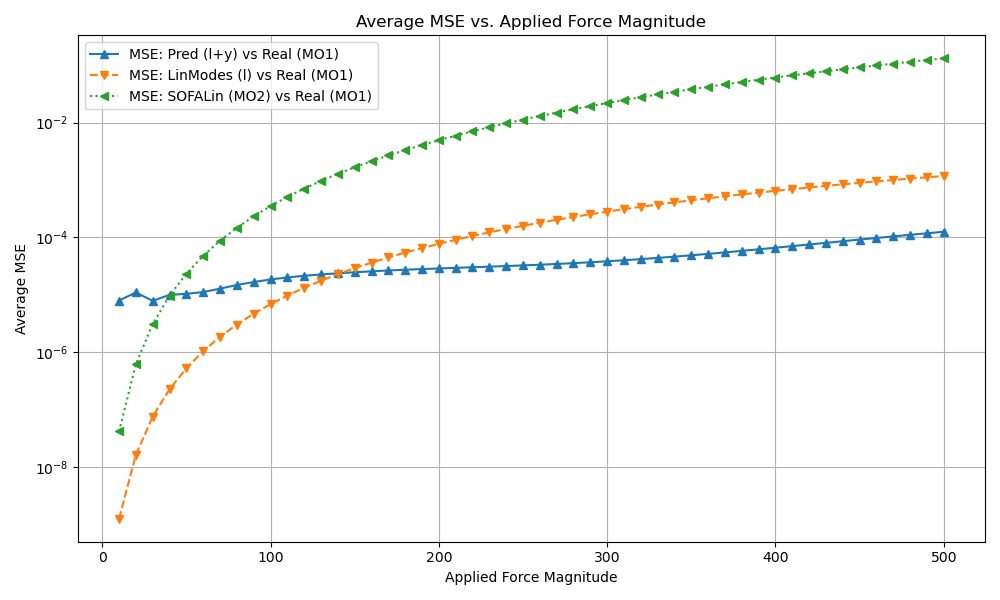
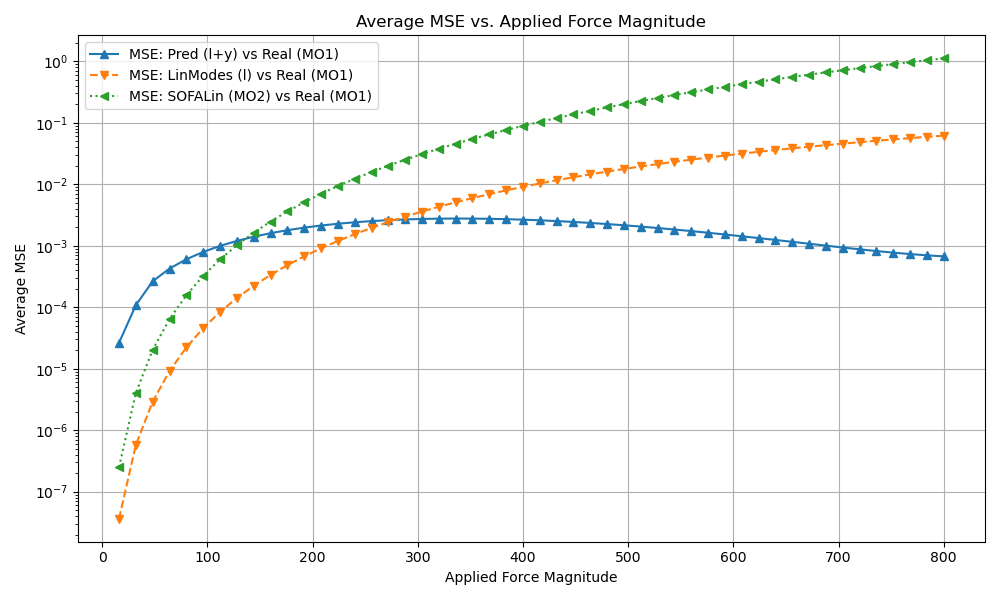
added self supervised comparison

diff --git a/INRIA/Report/Sections/04_numerical_results.tex b/INRIA/Report/Sections/04_numerical_results.tex
@@ -10,7 +10,7 @@ The first test case is a cantilever beam with a square cross-section of size $1 
 \label{sec:stanford_bunny_setup}
 The second test case employs the Stanford bunny \cite{bunny-mesh}, a widely recognized benchmark geometry in computational mechanics and computer graphics. This complex 3D shape presents a significantly more challenging validation scenario due to its intricate surface topology, non-uniform geometry, and irregular mass distribution. The Stanford bunny is fixed at its base and subjected to various loading conditions to generate the training data for the POD-based model reduction. This geometry tests the robustness and generalization capabilities of our method on realistic, non-trivial shapes that are commonly encountered in biomedical engineering applications. The complex geometry introduces coupling between different deformation modes and provides a stringent test for the neural network's ability to capture intricate displacement patterns typical of soft biological tissues.
 
-\begin{figure}[ht]
+\begin{figure}[H]
     \centering
     \includegraphics[width=0.7\textwidth]{Images/stanford_bunny.png}
     \caption{The Stanford bunny geometry used in the tests.}
@@ -25,7 +25,7 @@ One of the first steps is clearly to determine the optimal number of modes to be
     RMSE = \sqrt{\frac{1}{N}\sum_{i=1}^N (\bm{u}_i^{full} - \bm{u}_i^{reduced})^2},
 \end{equation}
 where $N$ is the number of nodes in the mesh, $\bm{u}_i^{full}$ is the displacement field computed with the full model and $\bm{u}_i^{reduced}$ is the displacement field computed with the reduced model. The figure shows that the error decreases rapidly with the number of modes used, and then stabilizes around 20 modes. We can see that with 10 modes the error is already below \(10^{-3}\) and with 20 modes the error is below \(10^{-4}\). For our use case, 7 modes are sufficient.
-\begin{figure}[ht]
+\begin{figure}[H]
     \centering
     \includegraphics[width=0.7\textwidth]{Images/rmse_vs_modes.png}
     \caption{RMSE of the displacement field as a function of the number of modes used.}
@@ -49,7 +49,7 @@ The training process is described in detail in Section \ref{sec:training_neural_
 
 For the cantilever beam, we stopped the training, after 200 epochs, when the loss reached a plateau and we observed no significant improvement in the last 50 epochs. In Figure \ref{fig:training_loss_beam} we can see the training loss for the cantilever beam, which shows that immediately after the first epoch the loss drops significantly, meaning that the model is able to learn the underlying physics of the problem very quickly. We then let the model train for 200 so that it can receive as input a wide range of different configurations and be able to generalize well.
 
-\begin{figure}[ht]
+\begin{figure}[H]
     \centering
     \includegraphics[width=0.7\textwidth]{Images/training_loss_smoothed.png}
     \caption{Training loss for the cantilever beam.}
@@ -58,7 +58,7 @@ For the cantilever beam, we stopped the training, after 200 epochs, when the los
 
 We also provide the plot of the energy part of the loss function, which is computed as the mean of the internal energy of the batch of training samples. As we can see in Figure \ref{fig:training_energy_loss_beam}, at the first epoch the energy is very high, because the last layer of the neural network is set to have zero weights and biases, meaning that at the end of first epoch the prediction is just the linear modes approximation, then the energy loss drops significantly in the first few epochs, learning a meaningful correction to the linear modes approximation, while maintaning the ability to generalize even though the training set is not very large. The energy loss stabilizes around \(5e3\), which is on par with the energy computed in the validation phase with the full-order FEM solver.
 
-\begin{figure}[ht]
+\begin{figure}[H]
     \centering
     \includegraphics[width=0.7\textwidth]{Images/training_energy_smoothed.png}
     \caption{Training energy loss for the cantilever beam.}
@@ -70,25 +70,48 @@ We also provide the plot of the energy part of the loss function, which is compu
 \label{sec:testing_model}
 Since the training is completely data-free we perform the validation of the model in two main ways. The first one is to check the accuracy of reconstruction of the displacement field for some random static configurations, given by applying random coefficients to the modal forces. The second way of validation is to see how well the model can predict the displacement field for a dynamic problem, where the FEM solver is used to compute the first two time steps of the dynamic problem, and then the equation \ref{eq:optimization_problem} is used to predict the next time steps. 
 
+\subsubsection{Self-supervised training}
+\label{sec:self_supervised_training}
+To provide some insight into the self-supervised training process, we trained a network following the procedure described by \cite{Wang_Du_Coros_Thomaszewski_2024}, where the network is trained by using only the minimization of the energy loss function, without any ground truth data. The training is performed by sampling uniformly the modal coefficients within the ranges established during the training phase:
+\begin{align*}
+    z_1 &\in [-225, 225], \\
+    z_2 &\in [-170, 170], \\
+    z_3 &\in [-20, 20], \\
+    z_4 &\in [-15, 15], \\
+    z_5 &\in [-5, 5], \\
+    z_6 &\in [-80, 80], \\
+    z_7 &\in [-170, 170].
+\end{align*}
+
+Then we perform the validation of the model on the same validation set used for the supervised training. The result are shown in Figure \ref{fig:self_supervised_validation_mse_comparison}, where we can see that the self-supervised model performs at most as well as the linear modes model, which means that it is not worth to use such a model, since it does not provide any significant advantage over the linear modes. 
+
+\begin{figure}[H]
+    \centering
+    \includegraphics[width=0.8\textwidth]{Images/self_supervised_mse.png}
+    \caption{Average MSE between 40 different simulations with randomly applied forces. The neural modes model (blue) is compared against the linear modes model (orange) and the linear FEM model (green), all evaluated against the nonlinear FEM ground truth. The self-supervised model performs at most as well as the linear modes, as shown by the MSE values.}
+    \label{fig:self_supervised_validation_mse_comparison}
+\end{figure}
+
 \subsubsection{Static validation}
 \label{sec:static_validation}
 For the static validation phase, we rigorously test the neural network model's ability to accurately reconstruct displacement fields for various static configurations that were not seen during training. This validation is crucial to establish confidence in the model's interpolation capabilities within the trained parameter space and to verify that the network has successfully learned the underlying physics of the structural mechanics problem.
 
+
 We generate a comprehensive test dataset consisting of 100 random static configurations by sampling modal coefficients uniformly within the established training ranges for each mode. Each test case represents a unique static equilibrium state of the cantilever beam under different loading conditions. For each configuration, we compute the reference displacement field using the full-order FEM solver and compare it with the neural network's prediction. The comparison is performed both qualitatively through visual inspection of the displacement fields and quantitatively using the Root Mean Square Error (RMSE) metric.
 
-At 500N of applied force, the maximum MSE is $10^{-4}$ for the neural model, significantly outperforming both the linear modes model ($10^{-3}$) and the FEM with linear elasticity ($10^{-2}$). The maximum observed error across all test cases is $1.2 \times 10^{-4}$, while the minimum is $1.2 \times 10^{-5}$, demonstrating that the model maintains excellent accuracy across the entire range of test configurations. Importantly, the neural network error remains bounded within this narrow range ($10^{-5}$ to $10^{-4}$) across all force magnitudes, making it significantly more reliable than linear modes, which perform very well for small displacements but exhibit exponentially growing errors when operating outside the small deformation range. These results confirm that the neural network has successfully learned to approximate the complex nonlinear relationship between modal coordinates and the resulting displacement fields with remarkable precision and consistent reliability.
+At 800N of applied force, the maximum MSE is $10^{-3}$ for the neural model, significantly outperforming both the linear modes model ($10^{-3}$) and the FEM with linear elasticity ($10^{-2}$). The maximum observed error across all test cases is $1.2 \times 10^{-3}$, while the minimum is $1.2 \times 10^{-5}$, demonstrating that the model maintains excellent accuracy across the entire range of test configurations. Importantly, the neural network error remains bounded within this narrow range ($10^{-5}$ to $10^{-3}$) across all force magnitudes, making it significantly more reliable than linear modes, which perform very well for small displacements but exhibit exponentially growing errors when operating outside the small deformation range. These results confirm that the neural network has successfully learned to approximate the complex nonlinear relationship between modal coordinates and the resulting displacement fields with remarkable precision and consistent reliability.
 
-Figure \ref{fig:static_mse_comparison} presents the average MSE comparison between three different approaches: neural modes, linear modes, and linear FEM, all evaluated against the nonlinear FEM ground truth across force magnitudes ranging from 0 to 500 N. The results reveal distinct performance characteristics across different deformation regimes. For small displacements in the linear range (low forces), the linear modes approach demonstrates superior accuracy due to its exact representation of the underlying linear physics. However, as the applied forces increase and the system enters the nonlinear deformation regime, the neural modes approach significantly outperforms both linear methods by approximately an order of magnitude. This performance crossover occurs around 100 N, where the geometric nonlinearities become dominant. The superior performance of neural modes in the nonlinear range validates the method's ability to capture complex deformation patterns that cannot be represented by linear modal decomposition alone.
+Figure \ref{fig:static_mse_comparison} presents the average MSE comparison between three different approaches: neural modes, linear modes, and linear FEM, all evaluated against the nonlinear FEM ground truth across force magnitudes ranging from 0 to 800 N. The results reveal distinct performance characteristics across different deformation regimes. For small displacements in the linear range (low forces), the linear modes approach demonstrates superior accuracy due to its exact representation of the underlying linear physics. However, as the applied forces increase and the system enters the nonlinear deformation regime, the neural modes approach significantly outperforms both linear methods by approximately an order of magnitude. This performance crossover occurs around 100 N, where the geometric nonlinearities become dominant. The superior performance of neural modes in the nonlinear range validates the method's ability to capture complex deformation patterns that cannot be represented by linear modal decomposition alone.
 
-\begin{figure}[ht]
+\begin{figure}[H]
     \centering
     \includegraphics[width=0.8\textwidth]{Images/beam_static_mse.png}
-    \caption{Average MSE between 40 different simulations with randomly applied forces.}
+    \caption{Average MSE between 40 different simulations with randomly applied forces. The neural modes model (blue) is compared against the linear modes model (orange) and the linear FEM model (green), all evaluated against the nonlinear FEM ground truth. The neural modes model significantly outperforms the linear modes, especially in the nonlinear regime.}
     \label{fig:static_mse_comparison}
 \end{figure}
 
 To provide an additional layer of insight into the model's performance, Figure \ref{fig:static_energy_beam} illustrates the relationship between the applied force and the internal mechanical energy of the beam. The graph compares the energy computed by the neural network model against the ground truth obtained from the nonlinear FEM solution. As we can see again, in the small deformation regime, the linear modes outperform the neural modes, keeping the internal energy closer  to the ground truth. However, as the applied force increases and the beam undergoes larger deformations, the neural modes model manages to correct the linear model into a lower energy state, which is closer to the ground truth even in the case of large deformations. 
-\begin{figure}[ht]
+\begin{figure}[H]
     \centering
     \includegraphics[width=0.8\textwidth]{Images/beam_static_energy.png}
     \caption{Internal mechanical energy of the beam as a function of the applied force. The orange line represents the energy computed by the neural network model, while the blue line is the ground truth obtained from the nonlinear FEM solution. The red line represents the energy computed by the FEM with linear elasticity and the green line is the energy computed by the linear modes model.}
@@ -102,7 +125,7 @@ This particular example demonstrates a critical limitation of linear approaches 
 
 On the other hand, the neural modes approach successfully captures this complex nonlinear deformation pattern with remarkable accuracy. The magenta neural network prediction closely follows the green ground truth solution, demonstrating the model's capability to learn and reproduce the intricate relationships between modal coordinates and the resulting nonlinear displacement fields. This superior performance in capturing geometric nonlinearities represents one of the key advantages of the proposed neural modes' methodology over traditional linear model reduction techniques, particularly for applications involving soft tissues and other materials that undergo large deformations during normal operation.
 
-\begin{figure}[ht]
+\begin{figure}[H]
     \centering
     \includegraphics[width=0.4\textwidth]{Images/sofa_example_beam.png}
     \caption{Example of a static reconstruction in the case of the beam. The magenta beam represents the neural network prediction, the green one is the ground truth, the red wireframe represents the linear modes and the blue wireframe is the linear FEM model.}
@@ -112,7 +135,7 @@ On the other hand, the neural modes approach successfully captures this complex 
 In the case of the Stanford bunny, the static validation follows a similar procedure. We generate a test dataset of 50 random configurations by sampling modal coefficients uniformly within the ranges established during training. Each configuration is then processed through the neural network to obtain the predicted displacement field, and grouped by the corresponding force applied to the bunny. The neural network's predictions are compared against the reference displacement fields computed using the full-order FEM solver equipped with the Neo-Hookean hyperelastic model, the linear modes approximation, and the linear FEM model.
 
 Figure \ref{fig:static_mse_bunny} presents the average MSE comparison between the neural modes, linear modes, and linear FEM approaches across different force magnitudes applied to the Stanford bunny. The results reveal a similar trend to that observed in the cantilever beam case. For small forces, the linear modes approach performs well, but as the applied force increases and the bunny undergoes larger deformations, the neural modes model significantly outperforms both linear methods. The neural network achieves an order of magnitude improvement in accuracy compared to linear modes, demonstrating its ability to capture complex nonlinear deformation patterns that are not adequately represented by linear modal decomposition.
-\begin{figure}[ht]
+\begin{figure}[H]
     \centering
     \includegraphics[width=0.8\textwidth]{Images/bunny_static_mse.png}
     \caption{Average MSE between 50 different simulations with randomly applied forces on the Stanford bunny.}
@@ -121,7 +144,7 @@ Figure \ref{fig:static_mse_bunny} presents the average MSE comparison between th
 
 Also in this case, Figure \ref{fig:static_energy_bunny} illustrates the relationship between the applied force and the internal mechanical energy of the object. Again, we have energies that are lower by an order of magnitude than the linear modes and two orders of magnitude lower than the linear FEM model. In the case of the bunny the energy datum is particularly important, as the principal modes of deformation of the object are related to his head and ears, which means that most of its body is not deformed, keeping the MSE between the predicted displacement field and the ground truth very low, even if the prediction is far from being correct. Having that many nodes that stay still even in the deformed configuration, calls for additional metrics to evaluate the performance of the model, such as the internal energy, which we observe has a tendency to explode using linear elasticity or a combination of linear modes, but in the case of the neural modes model, the energy is just a bit higher than the ground truth.
 
-\begin{figure}[ht]
+\begin{figure}[H]
     \centering
     \includegraphics[width=0.8\textwidth]{Images/bunny_static_energy.png}
     \caption{Internal mechanical energy of the Stanford bunny as a function of the applied force. The orange line represents the energy computed by the neural network model, while the blue line is the ground truth obtained from the nonlinear FEM solution. The red line represents the energy computed by the FEM with linear elasticity and the green line is the energy computed by the linear modes model.}
@@ -129,7 +152,7 @@ Also in this case, Figure \ref{fig:static_energy_bunny} illustrates the relation
     \end{figure}
 In  Figure \ref{fig:sofa_example_bunny} we can see an example of a static reconstruction in the case of the Stanford bunny. The magenta bunny represents the neural network prediction, the green one is the ground truth, the red wireframe represents the linear modes and the blue wireframe is the linear FEM model. As we can see, the force is applied  to the ears of the bunny, which are the most deformable parts of the geometry and exhibit a highly nonlinear behavior, as confirmed by the significant differences between the Neo-Hookean ground truth and the linear elasticity FEM model. The neural network prediction closely follows the ground truth, while the linear modes tends to amplify the volume of the ears and fail to reconstruct the bending behavior of them.
 
-\begin{figure}[ht]
+\begin{figure}[H]
     \centering
     \includegraphics[width=0.4\textwidth]{Images/sofa_example_bunny.png}
     \caption{Example of a static reconstruction in the case of the Stanford bunny. The magenta bunny represents the neural network prediction, the green one is the ground truth, the red wireframe represents the linear modes and the blue wireframe is the linear FEM model.}
@@ -148,7 +171,7 @@ Another important aspect of this framework is its interpretability. While neural
     where $\bm{f}(z)$ is the output of the neural network. This means that using a vector that has zero coefficients in all, but one of the modes, we can easily see how the neural network modifies the displacement field in that particular mode. This is a very important feature, since it allows us to understand how the neural network is modifying the displacement field in each mode, and how it is able to capture the nonlinear behavior of the system. 
     In Figure \ref{fig:latent_space_viz} we can see a visualization of the latent space of the neural modes model for the Stanford bunny and the 7 corresponding modes. We see that coefficients for the vector tend to decrease as we move from the first mode to the last one, which is on par with what we experienced when we faced the question of the optimal sampling of the latent space in Section \ref{sec:sampling_modal_space}.
 
-\begin{figure}[ht]
+\begin{figure}[H]
     \centering
     \includegraphics[width=\textwidth]{Images/latent_space_viz.png}
     \caption{Visualization of the latent space of the neural modes model for the Stanford bunny. Each row represents a different mode, and in the corner we can se the actual value of the coefficient for that mode. The first column represents the most significant mode, which describes the overall movement of the head of the bunny.}
@@ -166,7 +189,7 @@ In reality, just performing the first two time steps with the FEM solver is defi
 
 As we can see from the  results, the neural network model performance in terms of MSE is just slightly better than the linear modes model, which raises questions about the need of  using a neural network for this problem. This is a perfectly valid concern, since the linear modes model is already a very good approximation of the displacement field, and it is much simpler to implement. As we can see in Figure \ref{fig:dynamic_validation_mse_comparison}, both the neural modes and linear modes models stray further from the ground truth as time progresses, but the neural modes model does slightly better, especially in the initial steps. When we reach the last part of the simulation, the MSE of the neural modes model is around 0.1, which clearly means that the prediction is not very accurate.
 
-\begin{figure}[ht]
+\begin{figure}[H]
     \centering
     \includegraphics[width=0.8\textwidth]{Images/beam_dynamic_mse.png}
     \caption{MSE of the displacement field as a function of time for the dynamic validation of the cantilever beam. The neural modes model (blue) and the linear modes model (orange) are compared against the ground truth obtained from the nonlinear FEM solution (green). The neural modes model performs slightly better than the linear modes model, especially after the first few time steps.}
@@ -186,7 +209,7 @@ Things change drastically when we take a look at the internal energy of the syst
 
 % Figure \ref{fig:dynamic_validation_time_series} illustrates the time evolution of the displacement at the free end of the beam over a simulation spanning 1000 time steps, comparing the neural network prediction with the reference FEM solution. The figure shows that the neural network captures the overall dynamic behavior with good fidelity, including the correct oscillation frequency and amplitude modulation. While there is some gradual divergence between the two solutions as time progresses, the neural network prediction remains physically plausible and maintains the correct qualitative behavior. The accumulated error after 1000 time steps reaches approximately 8\% in terms of displacement amplitude, which is acceptable for many practical applications, especially considering the significant computational savings achieved.
 
-% \begin{figure}[ht]
+% \begin{figure}[H]
 %     \centering
 %     \includegraphics[width=0.4\textwidth]{Images/dummy.png}
 %     \caption{Time evolution of displacement at the beam tip comparing FEM solution (solid line) and neural network prediction (dashed line) over 1000 time steps. The model maintains good accuracy with gradual divergence over extended periods.}
@@ -195,7 +218,7 @@ Things change drastically when we take a look at the internal energy of the syst
 
 % A critical aspect of any physics-based model is its ability to preserve fundamental conservation laws. Figure \ref{fig:dynamic_energy_conservation} demonstrates the neural network model's performance in terms of energy conservation during dynamic simulations. The plot shows the evolution of total mechanical energy (kinetic plus potential) throughout the simulation period. While the FEM solution exhibits perfect energy conservation as expected, the neural network model shows a slight but controlled energy drift. Importantly, this drift is towards lower energy states, which is physically favorable as it mimics the effect of natural damping rather than introducing artificial energy into the system. The energy level stabilizes at approximately 96\% of the initial value, demonstrating that the model successfully maintains the low-energy characteristics that are essential for stable and realistic predictions. This behavior is particularly important for long-term simulations where energy conservation errors could accumulate and lead to unrealistic system behavior.
 
-% \begin{figure}[ht]
+% \begin{figure}[H]
 %     \centering
 %     \includegraphics[width=0.4\textwidth]{Images/dummy.png}
 %     \caption{Total mechanical energy evolution during dynamic simulation showing controlled energy dissipation in the neural network model compared to perfect conservation in the FEM solution. The model maintains physically realistic low-energy behavior.}

diff --git a/INRIA/Report/main.tex b/INRIA/Report/main.tex
@@ -155,7 +155,20 @@
 
 % Insert here the info that will be displayed into your Title page
 % -> title of your work
-\renewcommand{\title}{\noindent Neural Modes: an analysis and review of a novel method}
+\renewcommand{\title}{\noindent A Modified Neural Modes Approach for Soft Tissue Simulation: From Self-Supervised to Supervised Learning
+}
+% OTHER POSSIBLE TITLES
+% \renewcommand{\title}{\noindent Improving Neural Modes for Nonlinear Soft Tissue Simulation: A Supervised Learning Enhancement}
+% \renewcommand{\title}{\noindent Enhanced Neural Modes Framework: Supervised Training for Large Deformation Hyperelastic Simulation}
+% \renewcommand{\title}{\noindent Advancing the Neural Modes Method: Physics-Informed Supervised Learning for Nonlinear Mechanics}
+% \renewcommand{\title}{\noindent A Modified Neural Modes Approach for Soft Tissue Simulation: From Self-Supervised to Supervised Learning}
+% \renewcommand{\title}{\noindent Extending Neural Modes with Supervised Learning: Improved Accuracy for Large Deformation Neo-Hookean Materials}
+% \renewcommand{\title}{\noindent Neural Modes for Nonlinear Soft Tissue Simulation: A Physics-Informed Machine Learning Approach}
+% \renewcommand{\title}{\noindent Enhancing Linear Modal Analysis with Deep Learning for Real-Time Hyperelastic Deformation Simulation}
+% \renewcommand{\title}{\noindent Physics-Informed Neural Networks for Accelerated Nonlinear Mechanics: A Neural Modes Framework}
+% \renewcommand{\title}{\noindent Learning Nonlinear Corrections to Modal Analysis: A Supervised Approach for Large Deformation Simulation}
+% \renewcommand{\title}{\noindent Hybrid Modal-Neural Networks for Efficient Simulation of Neo-Hookean Materials in Biomedical Applications}
+
 
 % -> author name and surname
 \renewcommand{\author}{Andrea Bonifacio}
